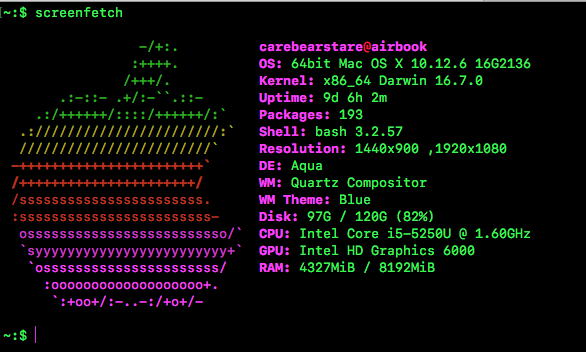
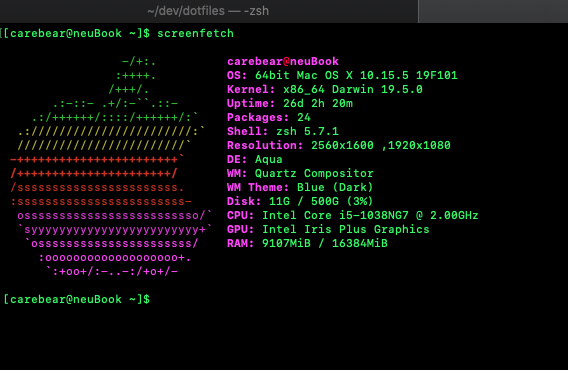
Terminal themes + screenfetch.

Changed region(s): [[0.0, 0.0, 1.0, 0.875], [0.0, 0.9375, 0.0599, 0.9688]]

diff --git a/README.md b/README.md
@@ -24,16 +24,14 @@ Notice that the bootstrap script has a few functions; the bootstrap script
 installs basic software to run your Mac. 
 
 # TODO list
+- [ ] For gitconfig, use env files / YAML files instead of sloppy invalidated scripts
+- [ ] Use env files / YAML files for aliases for k8s, dbs etc. 
 
 - [ ] PATH: VSCode binary / other binaries
 
 - [ ] tmux, and tmux conf.
 
 PR: Colors
-- [ ] Terminal
 - [ ] Set a color scheme like Ham Vocke.
-- [ ] Screenfetch on new mac
 - [ ] Image of script running (dotfiles kitteh)
 
-# Final
-- [ ] Make history safe
